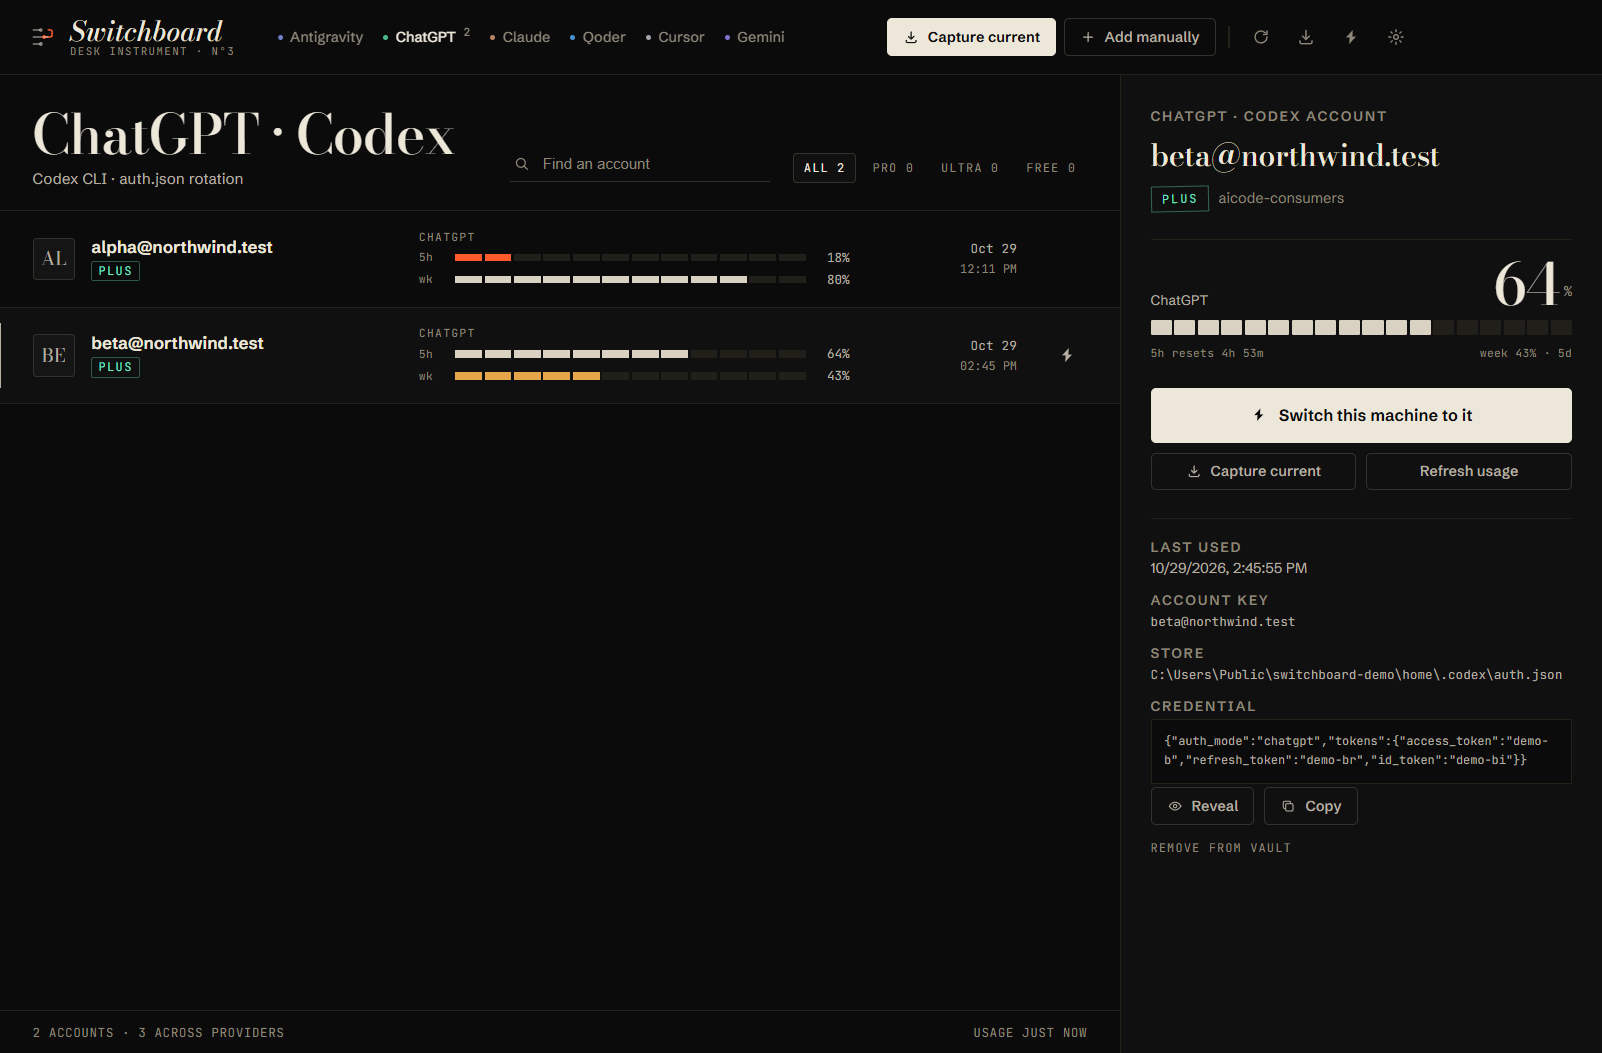
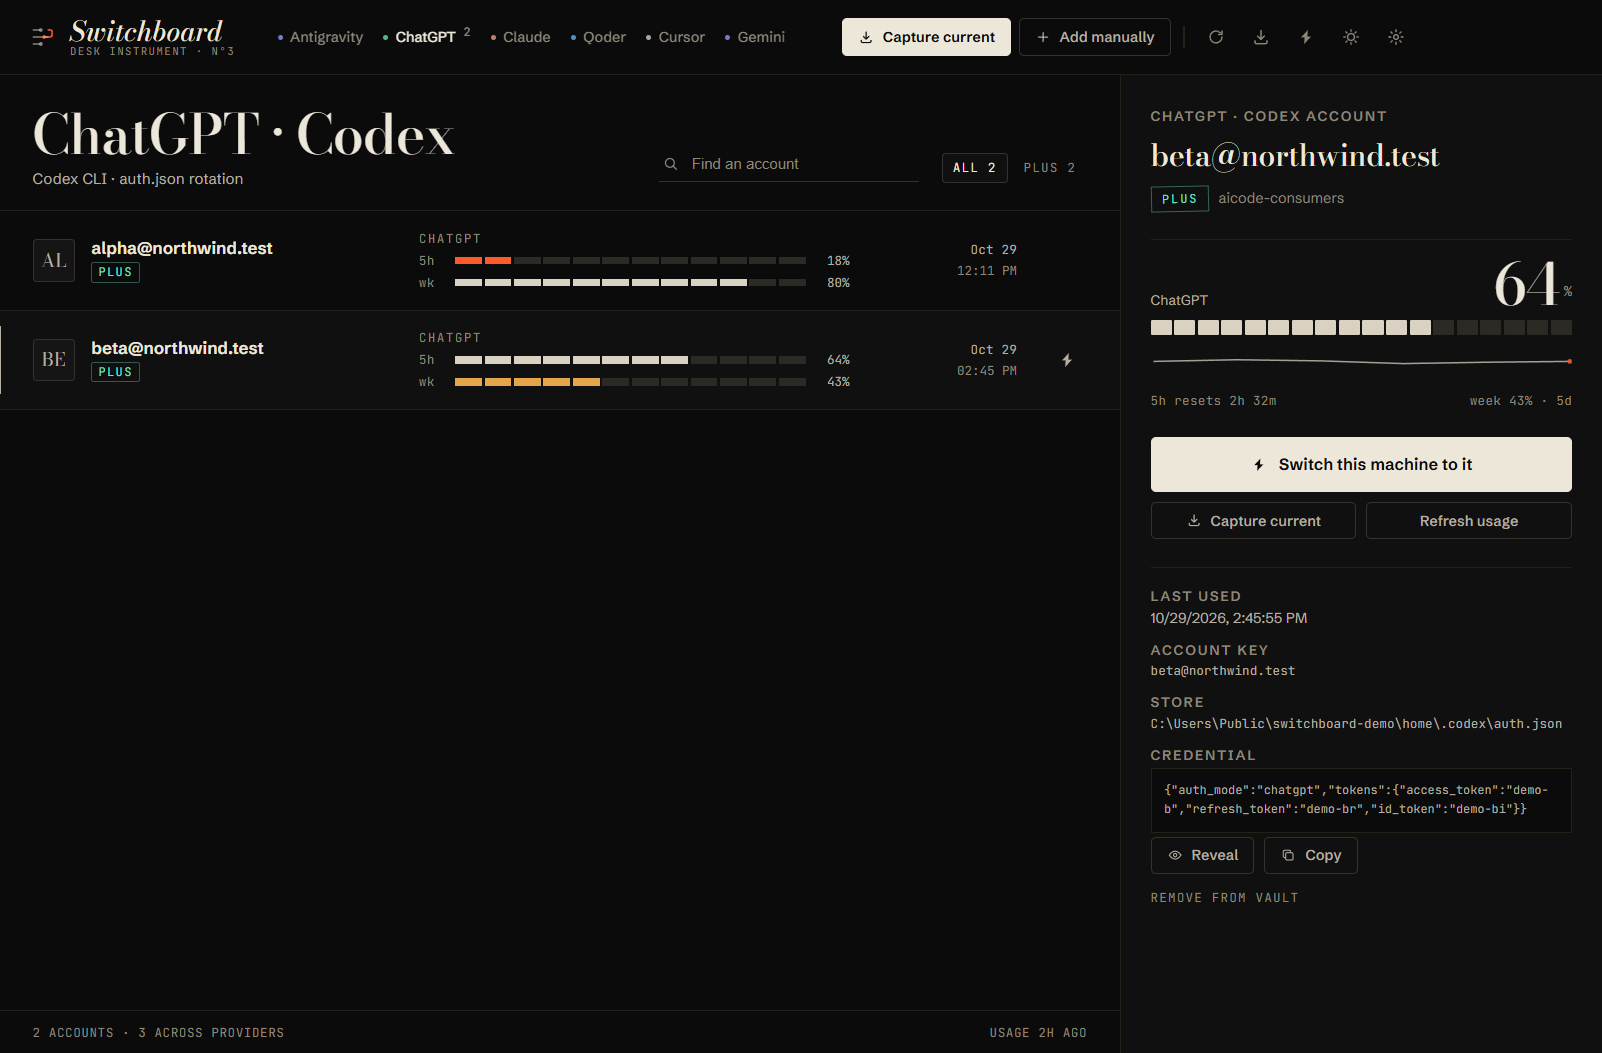
Release 1.2.0

diff --git a/README.md b/README.md
@@ -34,19 +34,27 @@ cache auth in memory.
 **Sign in with the Chrome you already use.** The Google flow runs in your system browser with
 PKCE and a loopback listener — the account already signed in there is one click away.
 
+**It rotates for you.** Set a floor — 10% by default — and Switchboard switches to the account
+with the most headroom before the agent stalls, then restarts the client. Runs from the tray
+with Windows notifications; `Ctrl+Alt+S` summons it anywhere.
+
 **One table for six clients.** Antigravity, ChatGPT/Codex, Claude Code, Qoder, Cursor and
-Gemini CLI. Plans (PRO / ULTRA / PLUS / MAX / FREE), last-used, key search, keyboard-first
-(`Ctrl+K`), light & dark themes, and a DPAPI-sealed vault. No telemetry.
+Gemini CLI. Plans (PRO / ULTRA / PLUS / MAX / FREE), 5-hour usage history sparklines, key
+search, keyboard-first (`Ctrl+K`), light & dark themes, and a DPAPI-sealed vault. No telemetry.
 
 ## Features
 
 | | |
 |---|---|
+| **Auto-rotate** | When the live account crosses your quota floor, Switchboard moves to the healthiest account and restarts the client — with a notification. |
+| **Tray + hotkey** | Keep it in the tray, start with Windows, summon with `Ctrl+Alt+S`; auto-rotate keeps working while the window is closed. |
 | **Verified switching** | Credential written, read back, identity-checked, app restarted. Failed switches are reported as failures. |
-| **Live usage** | Google Cloud Code quota, OpenAI `wham/usage`, Anthropic OAuth usage, Cursor dashboard — 5-hour + weekly windows with reset times. |
+| **Live usage** | Google Cloud Code quota, OpenAI `wham/usage`, Anthropic OAuth usage, Cursor dashboard — 5-hour + weekly windows with reset times and a usage trend sparkline. |
 | **Plan aware** | PRO / ULTRA / PLUS / MAX / FREE badges; filters that only show plans you actually have. |
 | **Browser sign-in** | Google OAuth with PKCE in Chrome/Edge; accounts land in the vault with quota ready. |
 | **Antigravity Tools import** | Bring existing accounts in from `~/.antigravity_tools` with one click. |
+| **One-click updates** | In-app check, SHA-256 verified download, self-install and relaunch. |
+| **Backups** | Export the vault to a JSON file when you move machines. |
 | **Private by design** | Vault sealed with Windows DPAPI; renderer sandboxed; navigation denied; IPC frame-gated; clipboard auto-wipes copied credentials; no telemetry. |
 | **Instrument-panel UI** | Bodoni Moda + Schibsted Grotesk + JetBrains Mono, segmented LED meters, light/dark/system themes, `prefers-reduced-motion` respected. |
 
@@ -66,10 +74,13 @@ Gemini CLI. Plans (PRO / ULTRA / PLUS / MAX / FREE), last-used, key search, keyb
    Get-FileHash .\Switchboard-*-win32-x64.zip -Algorithm SHA256
    ```
 3. Unzip anywhere and run **Switchboard.exe** (no installer, no admin rights).
-4. Switchboard checks for updates on launch; you can also check from **Settings → Updates**.
+4. Switchboard checks for updates on launch; **Settings → Updates** can download, verify and
+   install a new release in place.
 
-> Builds are portable and currently **unsigned**, so SmartScreen may ask once. The checksum is
-> the trust anchor until code signing lands.
+> Builds are portable and **code-signed with a self-signed development certificate**
+> (`Switchboard-signing.cer` ships in the archive). Windows will still show SmartScreen's
+> "unknown publisher" until an OV/EV certificate is used — the SHA-256 checksum remains the
+> trust anchor.
 
 ## Using it
 
@@ -136,6 +147,9 @@ relaunched around a switch because they rewrite auth on exit. Auto-restart can b
 
 **Is it open source?** This repository distributes the application and its documentation; it
 does not host the application source.
+
+**What if I hit my quota mid-task?** With auto-rotate on, Switchboard switches accounts for you
+and restarts the client; you get a Windows notification either way.
 
 ## Changelog
 

diff --git a/CHANGELOG.md b/CHANGELOG.md
@@ -1,5 +1,17 @@
 # Changelog
 
+## 1.2.0 — 2026-10-29
+
+- Auto-rotate: when the live account drops below your threshold, Switchboard switches to the
+  account with the most headroom and restarts the client for you (tray + settings).
+- Tray app: keep running when the window closes, Ctrl+Alt+S to summon it, start-with-Windows,
+  tray menu with auto-rotate and update check.
+- Notifications: low-quota alerts and auto-rotate events as Windows toasts.
+- Usage history: 5-hour trend sparkline per model group in the inspector.
+- One-click updates: download, SHA-256 verify and self-install from the release feed.
+- Vault export for backups; real values only, secrets warning shown.
+
+
 ## 1.1.0 — 2026-10-29
 
 - In-app update check against the public release feed (Settings → Updates; silently on boot).
